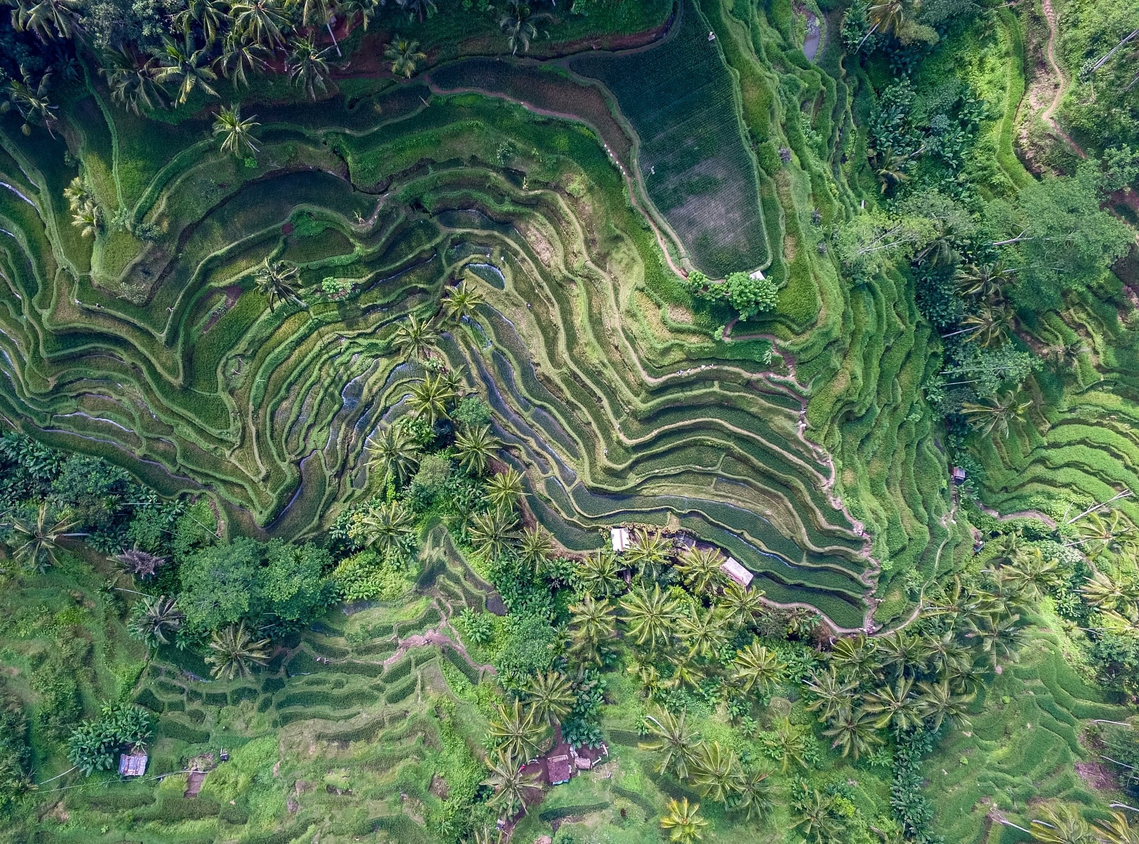
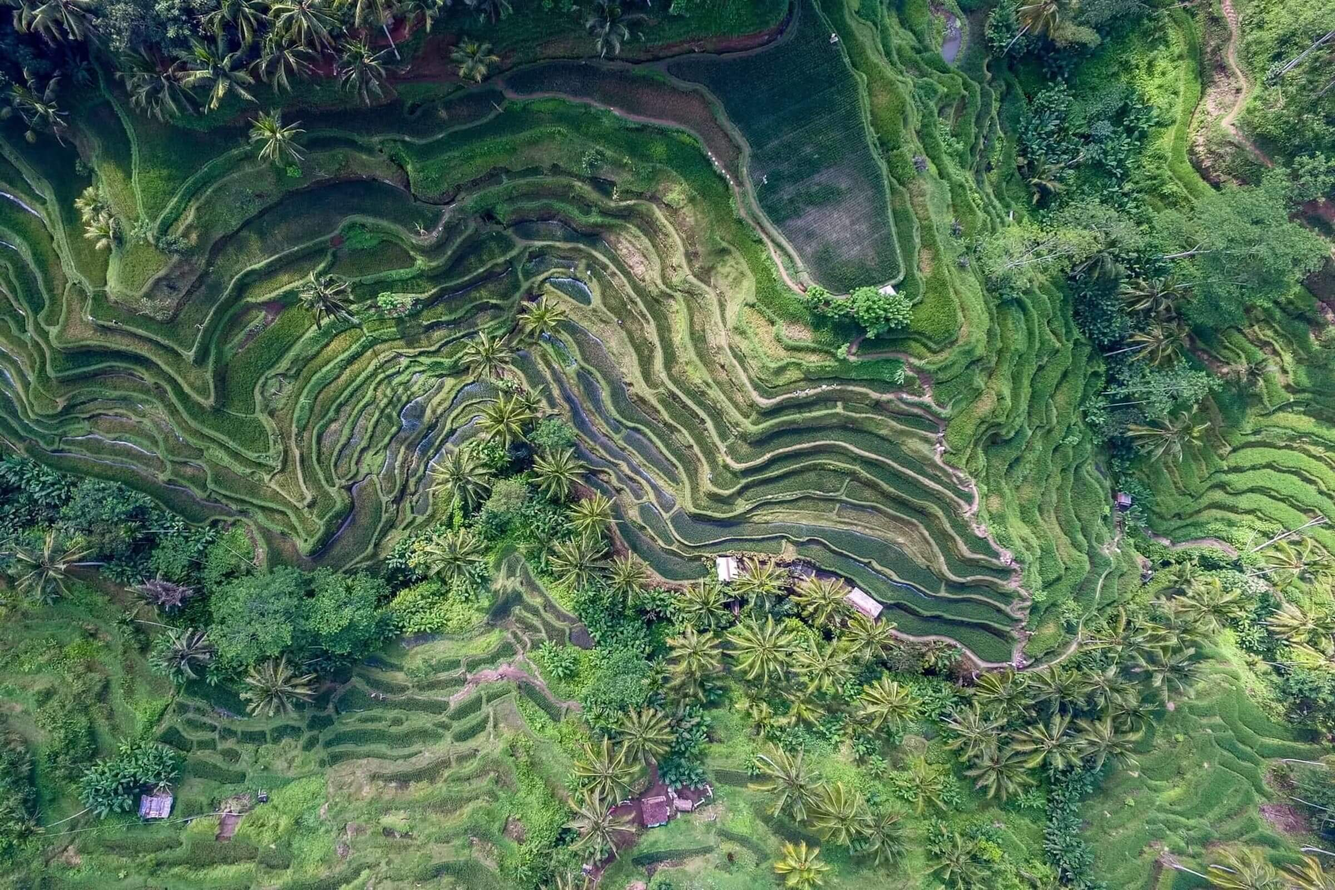
Fixed center bug in signin, added back to top button, further compressed images

diff --git a/wwwroot/js/site.js b/wwwroot/js/site.js
@@ -2,3 +2,19 @@
 // for details on configuring this project to bundle and minify static web assets.
 
 // Write your JavaScript code.
+$(document).ready(function () {
+    $(window).scroll(function () {
+        if ($(this).scrollTop() > 50) {
+            $('#back-to-top').fadeIn();
+        } else {
+            $('#back-to-top').fadeOut();
+        }
+    });
+    // scroll body to 0px on click
+    $('#back-to-top').click(function () {
+        $('body,html').animate({
+            scrollTop: 0
+        }, 400);
+        return false;
+    });
+});

diff --git a/wwwroot/css/site.css b/wwwroot/css/site.css
@@ -76,3 +76,10 @@ html {
     background-blend-mode: darken;
     background-size: cover;
 }
+
+.back-to-top {
+    position: fixed;
+    bottom: 25px;
+    right: 25px;
+    display: none;
+}
